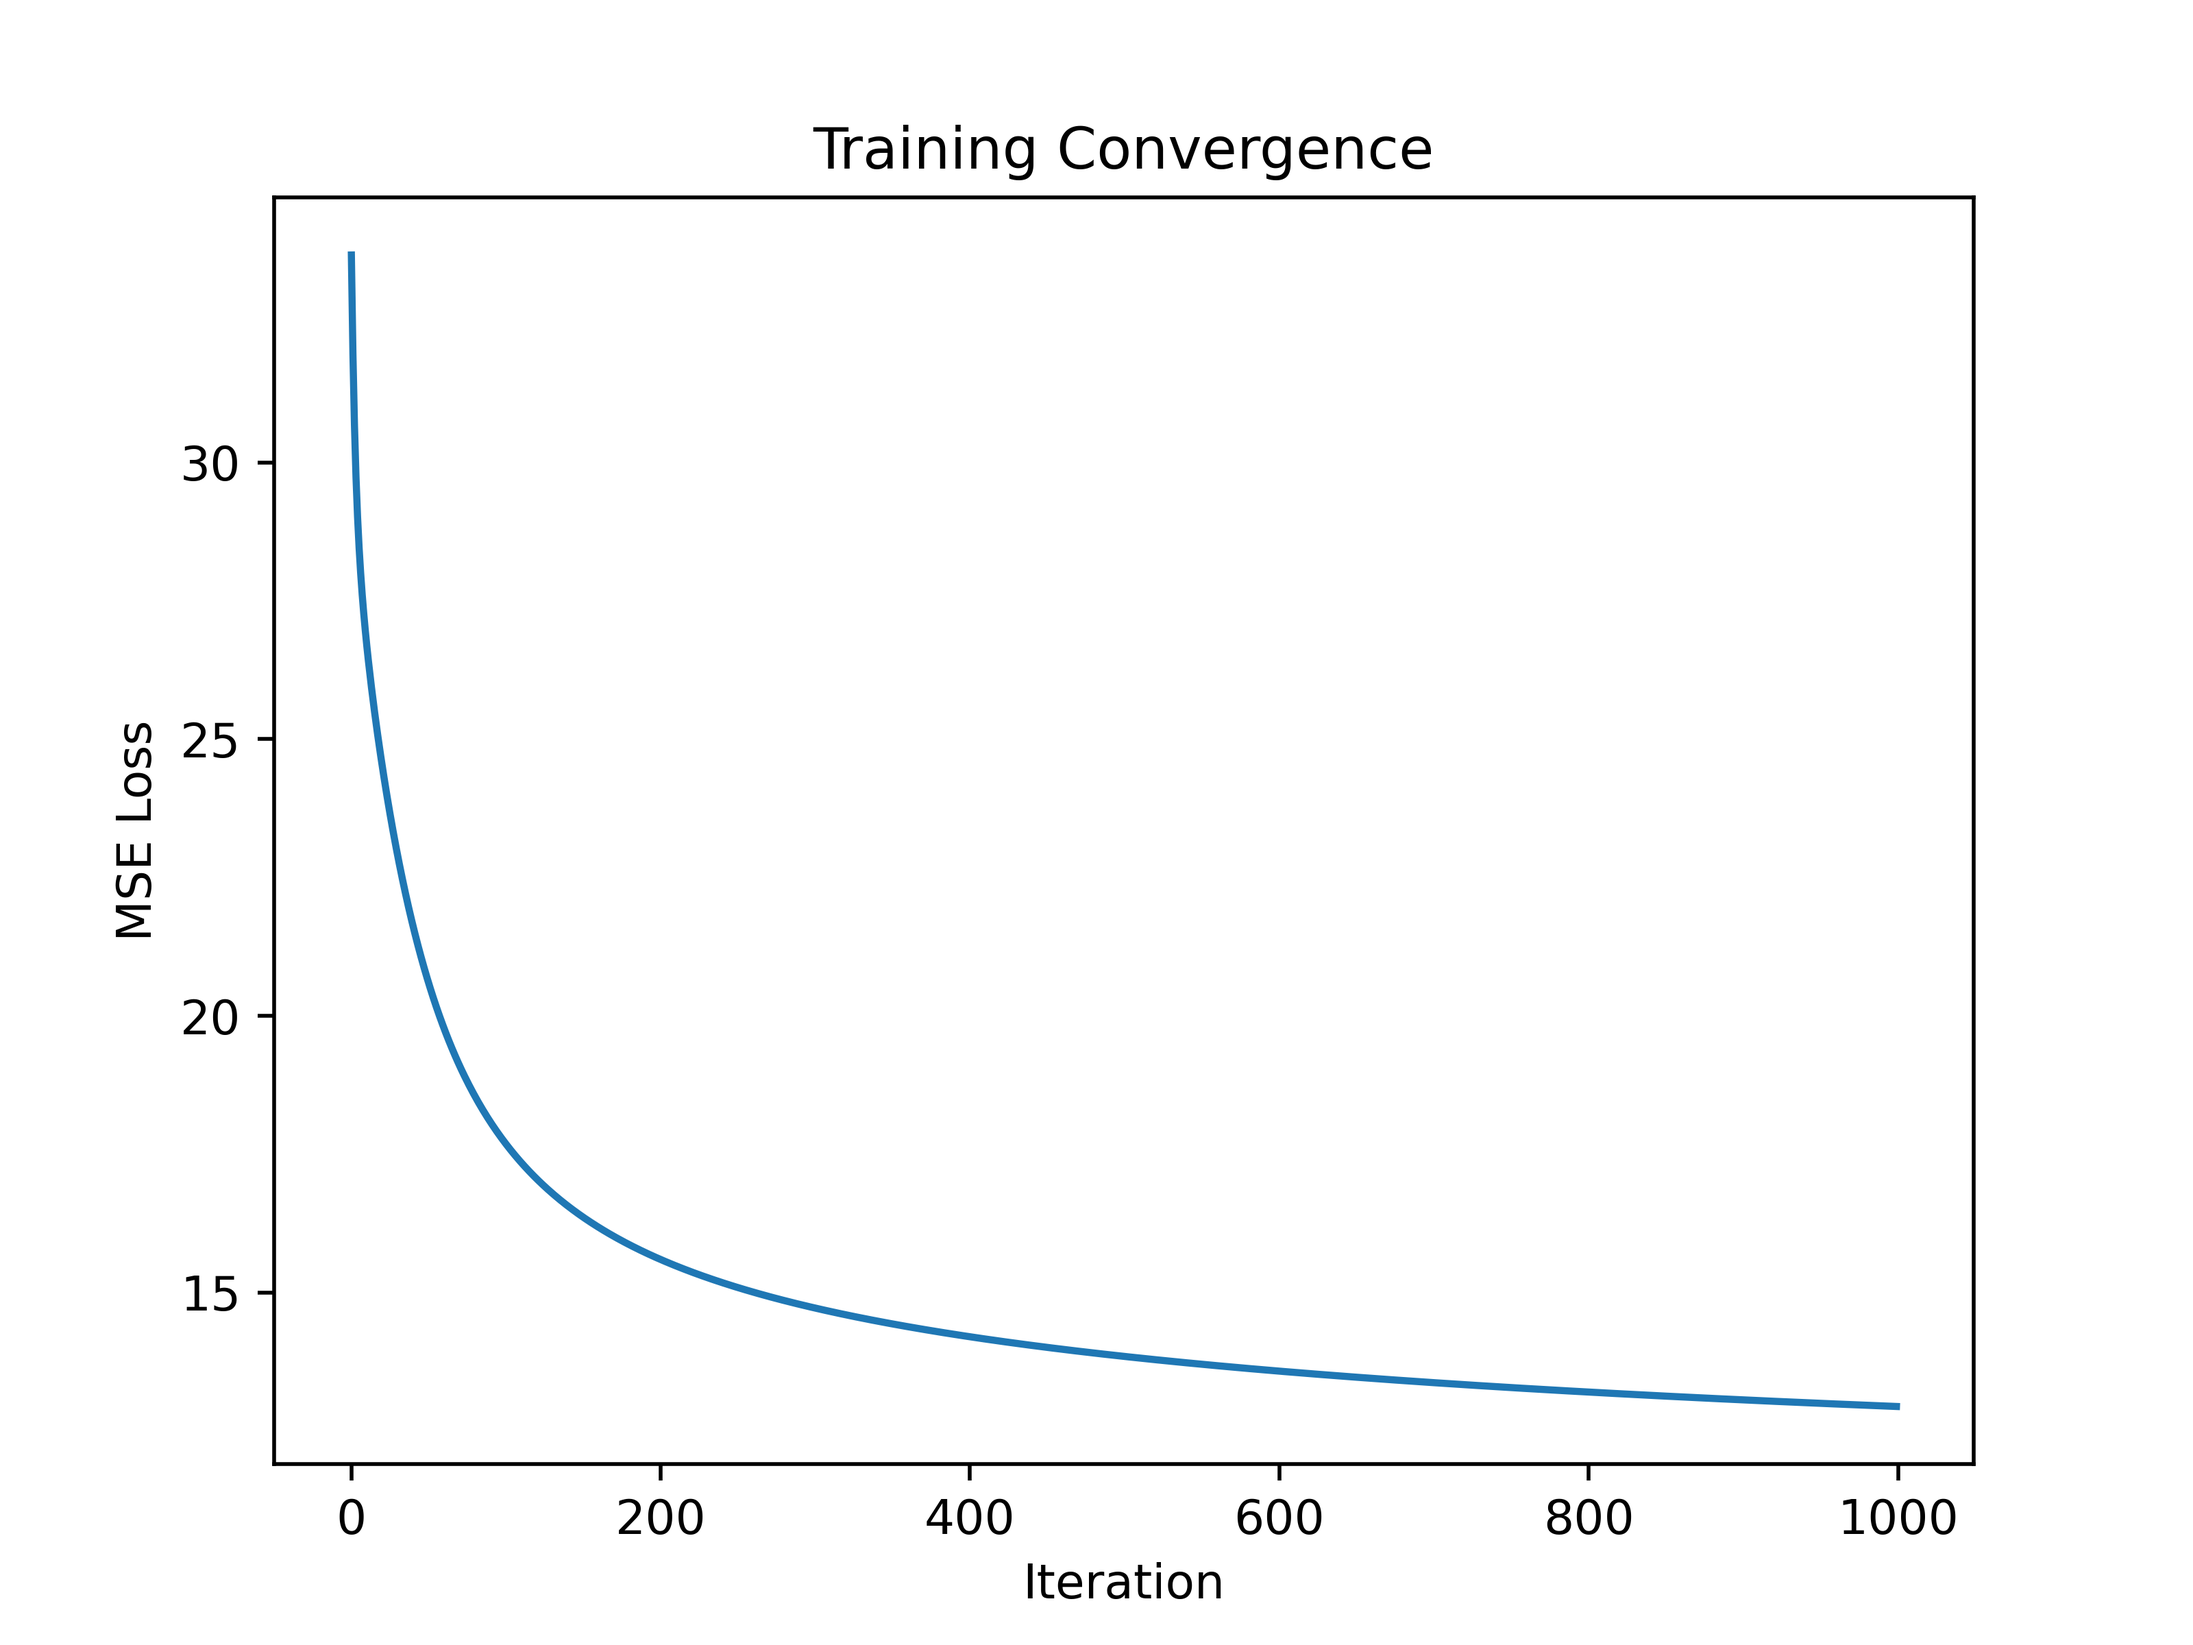
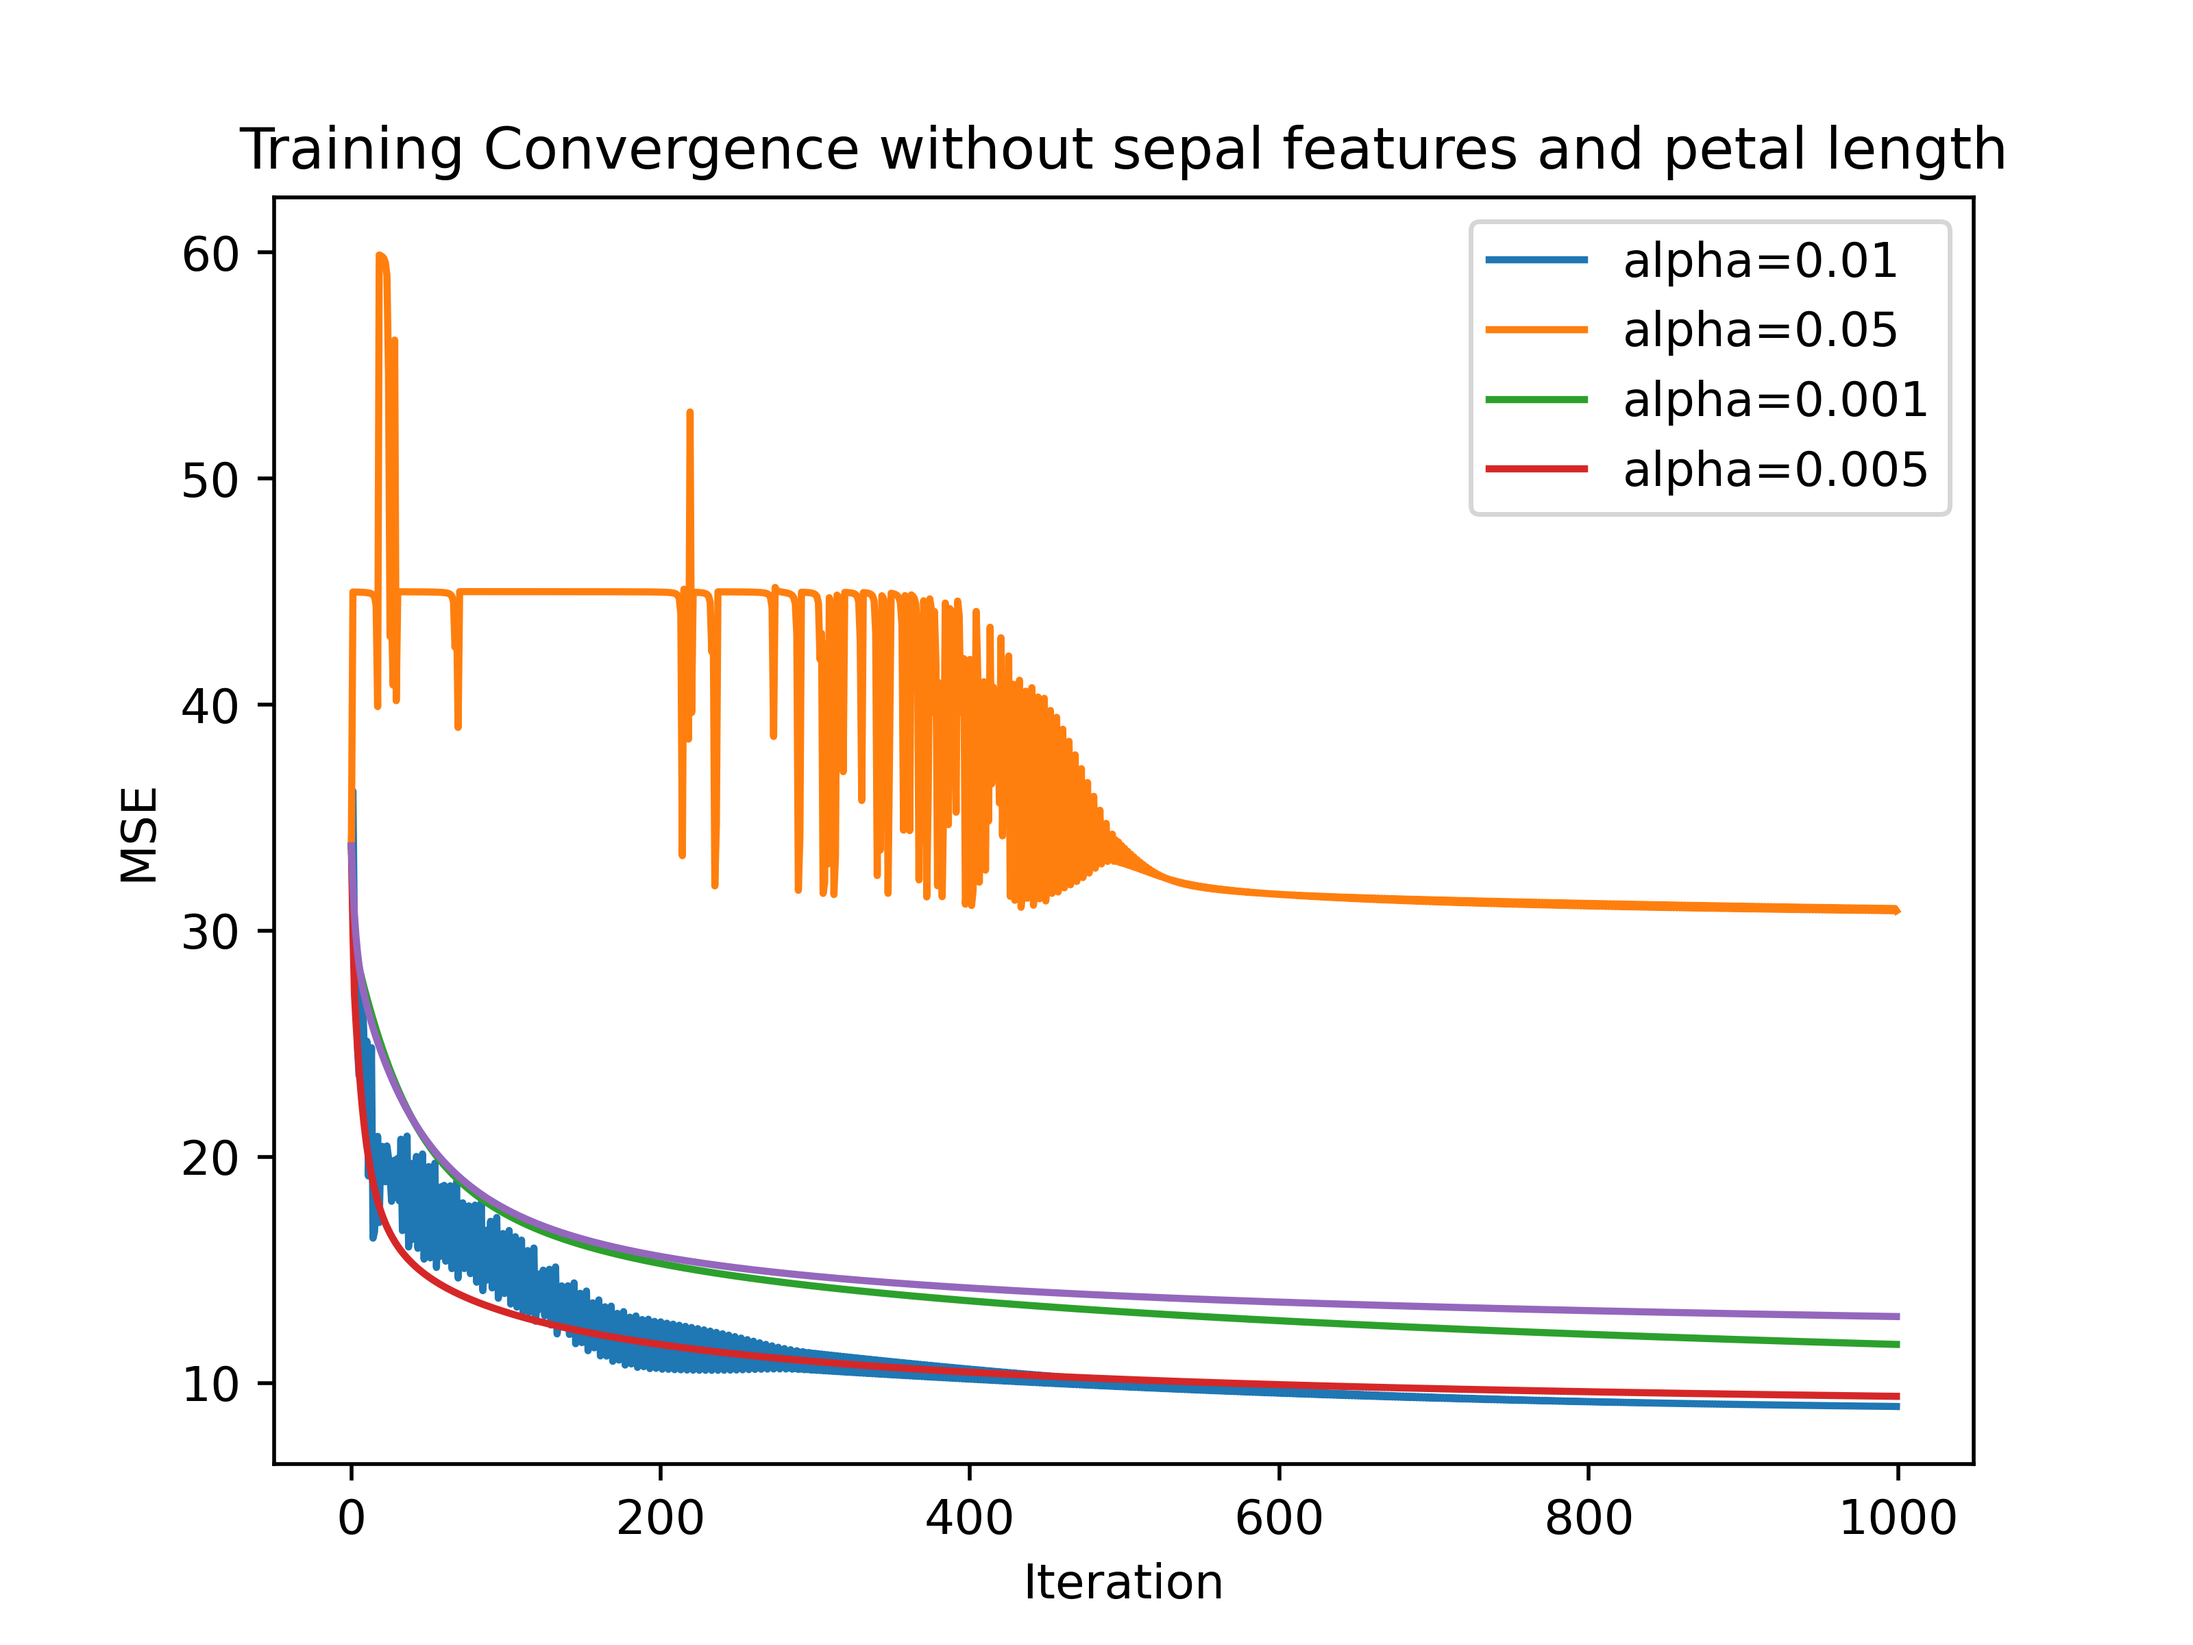
Some plots

diff --git a/Iris/main.py b/Iris/main.py
@@ -3,20 +3,21 @@ import numpy as np
 import matplotlib.pyplot as plt
 from sklearn.metrics import ConfusionMatrixDisplay
 from sklearn.datasets import load_iris
-import Iris.utils as utils
+import utils
 
 #CONSTANTS
 N_CLASSES = 3
 N_FEATURES = 4
 TRAINING_SIZE = 30
 TESTING_SIZE = 20
-ALPHA = 0.01
+ALPHAs = [0.01, 0.05, 0.001, 0.005]
+STEP_FACTOR = 0.01
 ITERATIONS = 1000
 
 #DATAFRAMES
-df1 = utils.get_set(TRAINING_SIZE + TESTING_SIZE, "class_1")
-df2 = utils.get_set(TRAINING_SIZE + TESTING_SIZE, "class_2")
-df3 = utils.get_set(TRAINING_SIZE + TESTING_SIZE, "class_3")
+df1 = utils.get_set(TRAINING_SIZE + TESTING_SIZE, "Iris\class_1")
+df2 = utils.get_set(TRAINING_SIZE + TESTING_SIZE, "Iris\class_2")
+df3 = utils.get_set(TRAINING_SIZE + TESTING_SIZE, "Iris\class_3")
 
 df_train = pd.concat([df1[:TRAINING_SIZE], df2[:TRAINING_SIZE], df3[:TRAINING_SIZE]], ignore_index=True)
 X_train = df_train.iloc[:, :4].to_numpy(dtype=float)
@@ -27,68 +28,129 @@ X_test = df_test.iloc[:, :4].to_numpy(dtype=float)
 iris = load_iris()
 
 def main():
-    #Task 1 - Part one
-    W = np.zeros((N_CLASSES, N_FEATURES + 1), dtype=float) 
-    W, loss = utils.train_classifier(X_train, W, TRAINING_SIZE, ITERATIONS, ALPHA, N_CLASSES)
+#-----------------------TASK ONE-----------------------
+    #Testing for different step factors to find the optimal one   
+    all_losses = {}
+    for alpha in ALPHAs:
+        W = np.zeros((N_CLASSES, N_FEATURES + 1), dtype=float) 
+
+        W, loss = utils.train_classifier(X_train, W, TRAINING_SIZE, ITERATIONS, alpha, N_CLASSES)
+        
+        all_losses[alpha] = loss
+        
+        cm_training = utils.confusion_matrix(W, X_train, TRAINING_SIZE, N_CLASSES)
+        cm_testing = utils.confusion_matrix(W, X_test, TESTING_SIZE, N_CLASSES)
+        
+        error_rate_training = utils.error_rate(cm_training)
+        error_rate_testing = utils.error_rate(cm_testing)    
+
+        print(f'Alpha {alpha}')
+        print(f'Error rate training {error_rate_training}')
+        print(f'Error rate testing {error_rate_testing}')
+    for alpha, loss in all_losses.items():
+        plt.plot(loss, label=f'alpha={alpha}')
+        
+    plt.xlabel('Iterations')
+    plt.ylabel('Loss')
+    plt.title('Loss over iterations')
+    plt.legend()
+#    plt.savefig('MSE_different_alphas', dpi = 500)
+
+    #Getting confusion matrix and error rate for chosen step factor
+    W = np.zeros((N_CLASSES, N_FEATURES + 1))
+    W, loss = utils.train_classifier(X_train, W, TRAINING_SIZE, ITERATIONS, STEP_FACTOR, N_CLASSES)
 
     cm_training = utils.confusion_matrix(W, X_train, TRAINING_SIZE, N_CLASSES)
     cm_testing = utils.confusion_matrix(W, X_test, TESTING_SIZE, N_CLASSES)
     error_rate_training = utils.error_rate(cm_training)
     error_rate_testing = utils.error_rate(cm_testing)
+    print(f'Error rate training {error_rate_training}')
+    print(f'Error rate testing {error_rate_testing}')
 
-    #Task 2 - Part two
-    #Removing one feature
+#    disp_training = ConfusionMatrixDisplay(confusion_matrix=cm_training, display_labels=iris.target_names)
+#    disp_training.plot(cmap=plt.cm.Blues)
+#    plt.title('Confusion Matrix training data \n Error rate: 3.33%')
+#    plt.savefig("Iris/figures/CM_training", dpi = 500)
+
+#    disp_training = ConfusionMatrixDisplay(confusion_matrix=cm_testing, display_labels=iris.target_names)
+#    disp_training.plot(cmap=plt.cm.Greens)
+#    plt.title('Confusion Matrix testing data\n Error rate: 5.00%')
+#    plt.savefig("Iris/figures/CM_testing", dpi = 500)
+
+#-----------------------TASK TWO-----------------------
+    features = [
+        "Sepal Length",
+        "Sepal Width",
+        "Petal Length",
+        "Petal Width"
+    ]
+
+
+    #Removing one feature, sepal length
     X_3_train= utils.remove_feature(X_train, 0)
     X_3_test = utils.remove_feature(X_test, 0)
 
-    #Removing 2 features
+    #Removing 2 features, sepal width and length
     X_2_train = utils.remove_feature(X_3_train, 0)
     X_2_test = utils.remove_feature(X_3_test, 0)
 
 
-    #Removing 3 features
+    #Removing 3 features, sepal width and length and petal length
     X_1_train = utils.remove_feature(X_2_train, 0)
     X_1_test = utils.remove_feature(X_2_test, 0)
 
-    #Training for removed features
+    #Training and testing for all the removed features
     W_3 = np.zeros((N_CLASSES, N_FEATURES))
-    W_3feat, loss_3 = utils.train_classifier(X_3_train, W_3, TRAINING_SIZE, ITERATIONS, ALPHA, N_CLASSES)
+    W_3feat, loss_3 = utils.train_classifier(X_3_train, W_3, TRAINING_SIZE, ITERATIONS, STEP_FACTOR, N_CLASSES)
     cm_3_train = utils.confusion_matrix(W_3feat, X_3_train, TRAINING_SIZE, N_CLASSES)
     cm_3_test = utils.confusion_matrix(W_3feat, X_3_test, TESTING_SIZE, N_CLASSES)
     error_rate_3_train = utils.error_rate(cm_3_train)
     error_rate_3_test = utils.error_rate(cm_3_test)
 
+    #disp_training = ConfusionMatrixDisplay(confusion_matrix=cm_3_train, display_labels=iris.target_names)
+    #disp_training.plot(cmap=plt.cm.Blues)
+    #plt.title('CM training without sepal length')
+    #plt.savefig("Iris/figures/CM_3_train", dpi = 500)
+
+    #disp_testing = ConfusionMatrixDisplay(confusion_matrix=cm_3_test, display_labels=iris.target_names)
+    #disp_testing.plot(cmap=plt.cm.Greens)
+    #plt.title('CM testing without sepal length')
+    #plt.savefig("Iris/figures/CM_3_test", dpi = 500)
+
     W_2 = np.zeros((N_CLASSES, N_FEATURES-1))
-    W_2feat, loss_2 = utils.train_classifier(X_2_train, W_2, TRAINING_SIZE, ITERATIONS, ALPHA, N_CLASSES)
+    W_2feat, loss_2 = utils.train_classifier(X_2_train, W_2, TRAINING_SIZE, ITERATIONS, STEP_FACTOR, N_CLASSES)
     cm_2_train = utils.confusion_matrix(W_2feat, X_2_train, TRAINING_SIZE, N_CLASSES)
     cm_2_test = utils.confusion_matrix(W_2feat, X_2_test, TESTING_SIZE, N_CLASSES)
     error_rate_2_train = utils.error_rate(cm_2_train)
     error_rate_2_test = utils.error_rate(cm_2_test)
-    
+
+    #disp_training = ConfusionMatrixDisplay(confusion_matrix=cm_2_train, display_labels=iris.target_names)
+    #disp_training.plot(cmap=plt.cm.Blues)
+    #plt.title('CM training without sepal length and width')
+    #plt.savefig("Iris/figures/CM_2_train", dpi = 500)
+
+    #disp_testing = ConfusionMatrixDisplay(confusion_matrix=cm_2_test, display_labels=iris.target_names)
+    #disp_testing.plot(cmap=plt.cm.Greens)
+    #plt.title('CM testing without sepal length and width')
+    #plt.savefig("Iris/figures/CM_2_test", dpi = 500)
+
+
     W_1 = np.zeros((N_CLASSES, N_FEATURES-2))
-    W_1, loss_1 = utils.train_classifier(X_1_train, W_1, TRAINING_SIZE, ITERATIONS, ALPHA, N_CLASSES)
+    W_1, loss_1 = utils.train_classifier(X_1_train, W_1, TRAINING_SIZE, ITERATIONS, STEP_FACTOR, N_CLASSES)
     cm_1_train = utils.confusion_matrix(W_1, X_1_train, TRAINING_SIZE, N_CLASSES)
     cm_1_test = utils.confusion_matrix(W_1, X_1_test, TESTING_SIZE, N_CLASSES)
     error_rate_1_train = utils.error_rate(cm_1_train)
     error_rate_1_test = utils.error_rate(cm_1_test)
 
-    plt.plot(loss_1)
-    plt.xlabel("Iteration")
-    plt.ylabel("MSE Loss")
-    plt.title("Training Convergence")
-    plt.savefig("Iris/figures/loss_1", dpi = 500)
+    #disp_training = ConfusionMatrixDisplay(confusion_matrix=cm_1_train, display_labels=iris.target_names)
+    #disp_training.plot(cmap=plt.cm.Blues)
+    #plt.title('CM training without sepal features and petal length')
+    #plt.savefig("Iris/figures/CM_1_train", dpi = 500)
 
-
-    disp_training = ConfusionMatrixDisplay(confusion_matrix=cm_1_train, display_labels=iris.target_names)
-    disp_training.plot(cmap=plt.cm.Blues)
-    plt.title('Confusion Matrix')
-    plt.savefig("Iris/figures/CM_1_train", dpi = 500)
-
-
-    disp_training = ConfusionMatrixDisplay(confusion_matrix=cm_1_test, display_labels=iris.target_names)
-    disp_training.plot(cmap=plt.cm.Greens)
-    plt.title('Confusion Matrix')
-    plt.savefig("Iris/figures/CM_1_test", dpi = 500)
+    #disp_testing = ConfusionMatrixDisplay(confusion_matrix=cm_1_test, display_labels=iris.target_names)
+    #disp_testing.plot(cmap=plt.cm.Greens)
+    #plt.title('CM testing without sepal features and petal length')
+    #plt.savefig("Iris/figures/CM_1_test", dpi = 500)
     
     print(f'Error rate training, all: {error_rate_training}')
     print(f'Error rate testing, all: {error_rate_testing}')
@@ -102,71 +164,11 @@ def main():
     print(f'Error rate training, 1 feature: {error_rate_1_train}')
     print(f'Error rate testing, 1 feature: {error_rate_1_test}')
 
-    features = [
-        "Sepal Length",
-        "Sepal Width",
-        "Petal Length",
-        "Petal Width"
-    ]
-
-    fig, axes = plt.subplots(2, 2, figsize=(12,8))
-
-    for i, ax in enumerate(axes.flat):
-        ax.hist(df1.iloc[:,i], bins=15, alpha=0.5, label='Class 1')
-        ax.hist(df2.iloc[:,i], bins=15, alpha=0.5, label='Class 2')
-        ax.hist(df3.iloc[:,i], bins=15, alpha=0.5, label='Class 3')
-
-        ax.set_title(features[i])
-        ax.set_xlabel(features[i])
-        ax.set_ylabel("Count")
-        ax.legend()
-
-    plt.tight_layout()
-    plt.savefig("figures/histogram", dpi = 500)
-    plt.show()
-
-"""    print(f'Error rate training: {error_rate_training}')
-    print(f'Error rate testing: {error_rate_testing}')
-    
-    plt.plot(loss)
+    plt.plot(loss_1)
     plt.xlabel("Iteration")
-    plt.ylabel("MSE Loss")
-    plt.title("Training Convergence")
-    plt.show()
-
-    disp_training = ConfusionMatrixDisplay(confusion_matrix=cm_training, display_labels=iris.target_names)
-    disp_training.plot(cmap=plt.cm.Blues)
-    plt.title('Confusion Matrix for training')
-    plt.show()
-
-    disp_testing = ConfusionMatrixDisplay(confusion_matrix=cm_testing, display_labels=iris.target_names)
-    disp_testing.plot(cmap=plt.cm.Greens)
-    plt.title('Confusion Matrix for testing')
-    plt.show()"""
-"""#----------------------------PART TWO----------------------------
-    features = [
-        "Sepal Length",
-        "Sepal Width",
-        "Petal Length",
-        "Petal Width"
-    ]
-
-    fig, axes = plt.subplots(2, 2, figsize=(12,8))
-
-    for i, ax in enumerate(axes.flat):
-        ax.hist(df1.iloc[:,i], bins=15, alpha=0.5, label='Class 1')
-        ax.hist(df2.iloc[:,i], bins=15, alpha=0.5, label='Class 2')
-        ax.hist(df3.iloc[:,i], bins=15, alpha=0.5, label='Class 3')
-
-        ax.set_title(features[i])
-        ax.set_xlabel(features[i])
-        ax.set_ylabel("Count")
-        ax.legend()
-
-    plt.tight_layout()
-    plt.show()
-
-"""
+    plt.ylabel("MSE")
+    plt.title("Training Convergence without sepal features and petal length")
+    plt.savefig("Iris/figures/loss_1", dpi = 500)
 
 if __name__ == '__main__':
     main()  

diff --git a/Vowels/main.py b/Vowels/main.py
@@ -63,7 +63,7 @@ def main():
             #make again for diag cov
 
     error = utils.error_rate(cm)
-    print(f'Error rate: {error}')
+    print(f'Error rate normal: {error}')
 
     diag_covariances ={}
     for v in covariances:
@@ -91,7 +91,7 @@ def main():
 
             cm_diag[i,j] += 1
 
-    error_diag = 1 - np.trace(cm_diag)/np.sum(cm_diag)
+    error_diag = utils.error_rate(cm_diag)
     print(f'Error rate digonal covariance matrix: {error_diag}')
 
 #---------------------TASK 2------------------
@@ -115,13 +115,25 @@ def main():
 
             cm_2[i,j] += 1
             cm_3[i,k] += 1
-    
-    print(utils.error_rate(cm_2))
+    fig, ax = plt.subplots()
+    ax.axis('off')
+
+    table = ax.table(
+        cellText=mean_matrix.round(1).values,
+        rowLabels=mean_matrix.index,
+        colLabels=mean_matrix.columns,
+        loc='center'
+    )
+
+  #  plt.show()
+    print(f'Error rate no mixstures {utils.error_rate(cm)}')
+    print(f'Error rate 2 mixstures {utils.error_rate(cm_2)}')
+    print(f'Error rate 3 mixstures {utils.error_rate(cm_3)}')
     print(utils.error_rate(cm_3))
     disp_training = ConfusionMatrixDisplay(confusion_matrix=cm_3, display_labels=classes)
     disp_training.plot(cmap=plt.cm.Reds)
-    plt.title('Confusion Matrix')
-    plt.savefig("Vowels/figures/CM_3", dpi = 500)
+   # plt.title('Confusion Matrix')
+    #plt.savefig("Vowels/figures/CM_3", dpi = 500)
 
 
 if __name__ == "__main__":

diff --git a/Iris/utils.py b/Iris/utils.py
@@ -24,6 +24,8 @@ def MSE_loss(g, t):
     loss = 0.5 * np.sum(error**2)
     return loss
 
+
+
 def MSE_gradient(g, t, x, num_features, num_classes):
     grad = np.zeros((num_classes, num_features + 1))
 
@@ -54,7 +56,7 @@ def train_classifier(training_data, W, training_size, iterations, alpha, num_cla
         loss[i] = MSE_loss(g_vector, target)
         W = W - alpha * gradient
 
-        print(f"Iteration: {i+1}")
+      #  print(f"Iteration: {i+1}")
 
     return W, loss
 

diff --git a/README.md b/README.md
@@ -1,1 +1,3 @@
 # Classification-project TTT4275
+### Project for the course Estimation, Detection and Classification at NTNU
+
